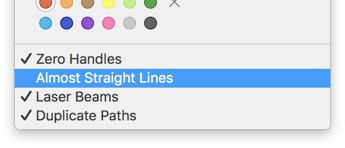
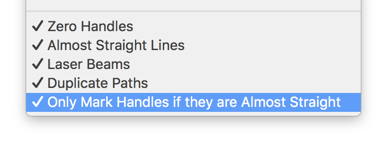
Add option to mark angled handles only when they are almost straight.

diff --git a/ShowAngledHandles.glyphsReporter/Contents/Resources/plugin.py b/ShowAngledHandles.glyphsReporter/Contents/Resources/plugin.py
@@ -14,6 +14,17 @@
 
 from GlyphsApp.plugins import *
 from GlyphsApp import OFFCURVE
+import math
+
+def angleBetweenPoints( firstPoint, secondPoint ):
+	"""
+	Returns the angle (in degrees) of the straight line between firstPoint and secondPoint,
+	0 degrees being the second point to the right of first point.
+	firstPoint, secondPoint: must be NSPoint or GSNode
+	"""
+	xDiff = secondPoint.x - firstPoint.x
+	yDiff = secondPoint.y - firstPoint.y
+	return math.degrees(math.atan2(yDiff,xDiff))
 
 def subtractPoints( point1, point2 ):
 	"""Returns point2 - point1."""
@@ -84,6 +95,7 @@ class ShowAngledHandles(ReporterPlugin):
 				"com.mekkablue.ShowAngledHandles.almostStraightLines": True,
 				"com.mekkablue.ShowAngledHandles.laserBeams": True,
 				"com.mekkablue.ShowAngledHandles.duplicatePaths": True,
+				"com.mekkablue.ShowAngledHandles.onlyShowCloseToStraightHandles": False,
 			}
 		)
 		
@@ -217,6 +229,8 @@ class ShowAngledHandles(ReporterPlugin):
 							returnList.append( [intersection, pointA, pointD] )
 							
 		return returnList
+		
+	
 			
 	def getListOfAngledHandles( self, thisLayer ):
 		"""
@@ -342,10 +356,24 @@ class ShowAngledHandles(ReporterPlugin):
 					nextNode = thisPath.nodes[ i+1 ]
 					if prevNode.type != GSOFFCURVE:
 						if ( thisNode.x - prevNode.x ) * ( thisNode.y - prevNode.y ) != 0.0:
-							returnList.append( thisNode )
+							if not Glyphs.defaults["com.mekkablue.ShowAngledHandles.onlyShowCloseToStraightHandles"]:
+								returnList.append( thisNode )
+							else:
+								angle = angleBetweenPoints( thisNode, prevNode ) % 90.0
+								diffX = abs(thisNode.x - prevNode.x)
+								diffY = abs(thisNode.y - prevNode.y)
+								if diffX <= 2.0 or diffY <= 2.0 or angle < 8.0 or angle > 82.0:
+									returnList.append( thisNode )
 					elif nextNode.type != GSOFFCURVE:
 						if ( thisNode.x - nextNode.x ) * ( thisNode.y - nextNode.y ) != 0.0:
-							returnList.append( thisNode )
+							if not Glyphs.defaults["com.mekkablue.ShowAngledHandles.onlyShowCloseToStraightHandles"]:
+								returnList.append( thisNode )
+							else:
+								angle = angleBetweenPoints( thisNode, nextNode ) % 90.0
+								diffX = abs(thisNode.x - nextNode.x)
+								diffY = abs(thisNode.y - nextNode.y)
+								if diffX <= 2.0 or diffY <= 2.0 or angle < 8.0 or angle > 82.0:
+									returnList.append( thisNode )
 		return returnList
 	
 	def conditionalContextMenus(self):
@@ -370,8 +398,15 @@ class ShowAngledHandles(ReporterPlugin):
 			'action': self.toggleDuplicatePaths,
 			'state': Glyphs.defaults[ "com.mekkablue.ShowAngledHandles.duplicatePaths" ],
 		},
+		{
+			'name': Glyphs.localize({'en': u"Only Mark Handles if they are Almost Straight", 'de': u"Anfasser nur markieren, wenn sie beinahe gerade sind", 'es': u"Mostrar manejadores sólo cuando están casi en línea recta"}), 
+			'action': self.toggleOnlyCloseHandles,
+			'state': Glyphs.defaults[ "com.mekkablue.ShowAngledHandles.onlyShowCloseToStraightHandles" ],
+		},
 		]
 
+	def toggleOnlyCloseHandles(self):
+		self.toggleSetting("onlyShowCloseToStraightHandles")
 	
 	def toggleZeroHandles(self):
 		self.toggleSetting("zeroHandles")
@@ -386,7 +421,7 @@ class ShowAngledHandles(ReporterPlugin):
 		self.toggleSetting("duplicatePaths")
 
 	def toggleSetting(self, prefName):
-		pref = "com.mekkablue.ShowAngledHandles.%s"%prefName
+		pref = "com.mekkablue.ShowAngledHandles.%s" % prefName
 		Glyphs.defaults[pref] = not bool(Glyphs.defaults[pref])
 	
 	def addMenuItemsForEvent_toMenu_(self, event, contextMenu):
